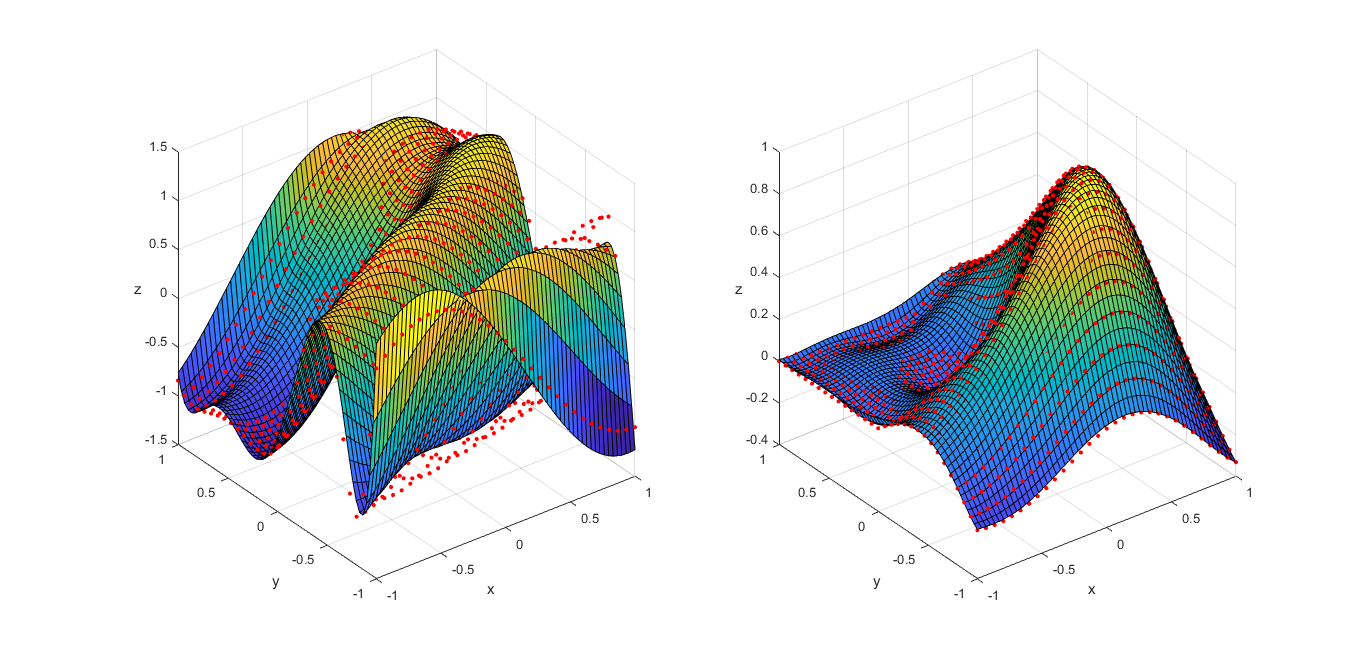
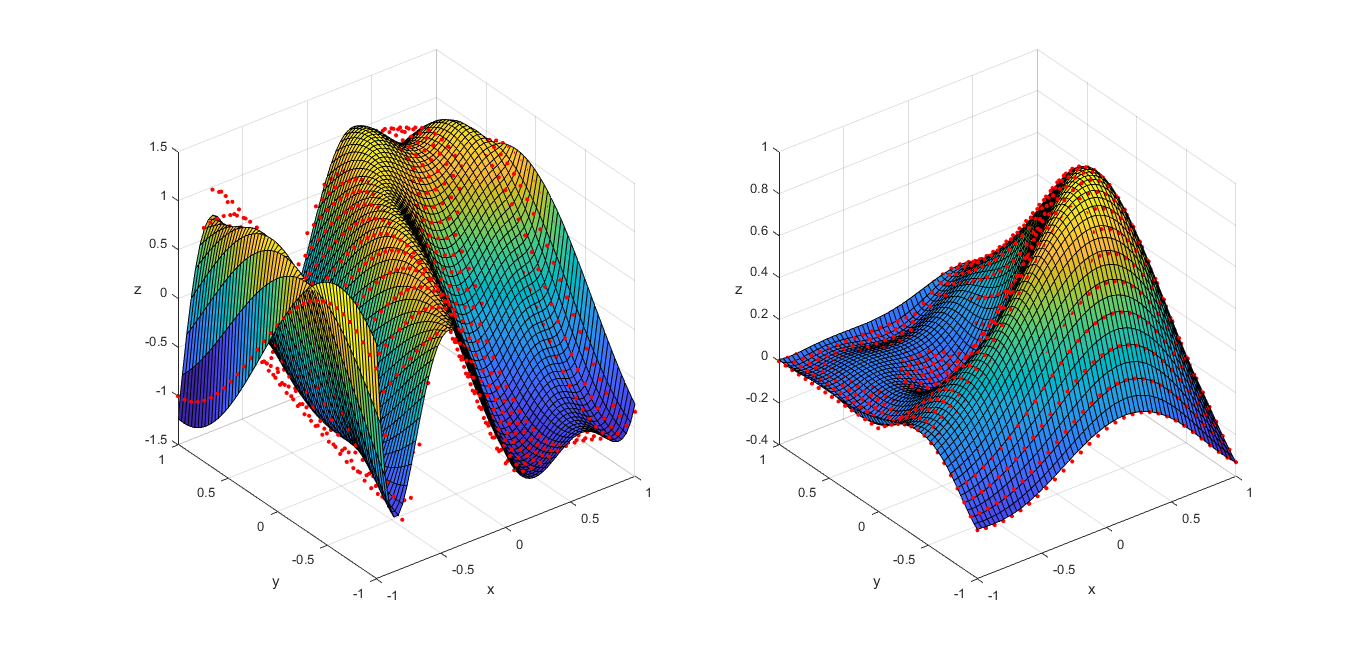
oeioei ik had niet gepushed

Changed region(s): [[0.123, 0.1536, 0.4919, 0.7988]]

diff --git a/MATLAB/kkb_oef4.m b/MATLAB/kkb_oef4.m
@@ -2,8 +2,8 @@ clear;
 %input
 x_i1 = linspace(-1,1,30);
 x_i2 = [linspace(-1,-0.20,5) linspace(-0.18,0.18,20) linspace(0.20,1,5)];
-F_i1 = (1 + 25*((x_i1').^2 + x_i1.^2)).^(-1);
-F_i2 = (1 + 25*((x_i2').^2 + x_i2.^2)).^(-1);
+F_i1 = (1 + 25*((x_i1).^2 + x_i1'.^2)).^(-1);
+F_i2 = (1 + 25*((x_i2).^2 + x_i2'.^2)).^(-1);
 mn_min = 1;
 mn_max = 20;
 %solve and calculate error and maximum error

diff --git a/MATLAB/kkb_oef3.m b/MATLAB/kkb_oef3.m
@@ -1,7 +1,7 @@
 clear;
 %input
 x_i = linspace(-1,1,31);
-F_i1 = sin( ((2*x_i') - 1).^2 + 2*x_i );
+F_i1 = sin( ((2*x_i) - 1).^2 + 2*x_i' );
 F_i2 = membrane(1,15);
 mn_min = 1;
 mn_max = 20;

diff --git a/MATLAB/kkb_oef2aenb.m b/MATLAB/kkb_oef2aenb.m
@@ -1,7 +1,7 @@
 clear;
 %input
 x_i = linspace(-1,1,31);
-F_i1 = sin( ((2*x_i') - 1).^2 + 2*x_i );
+F_i1 = sin( ((2*x_i) - 1).^2 + 2*x_i' );
 F_i2 = membrane(1,15);
 m = 7;
 n = 7;
